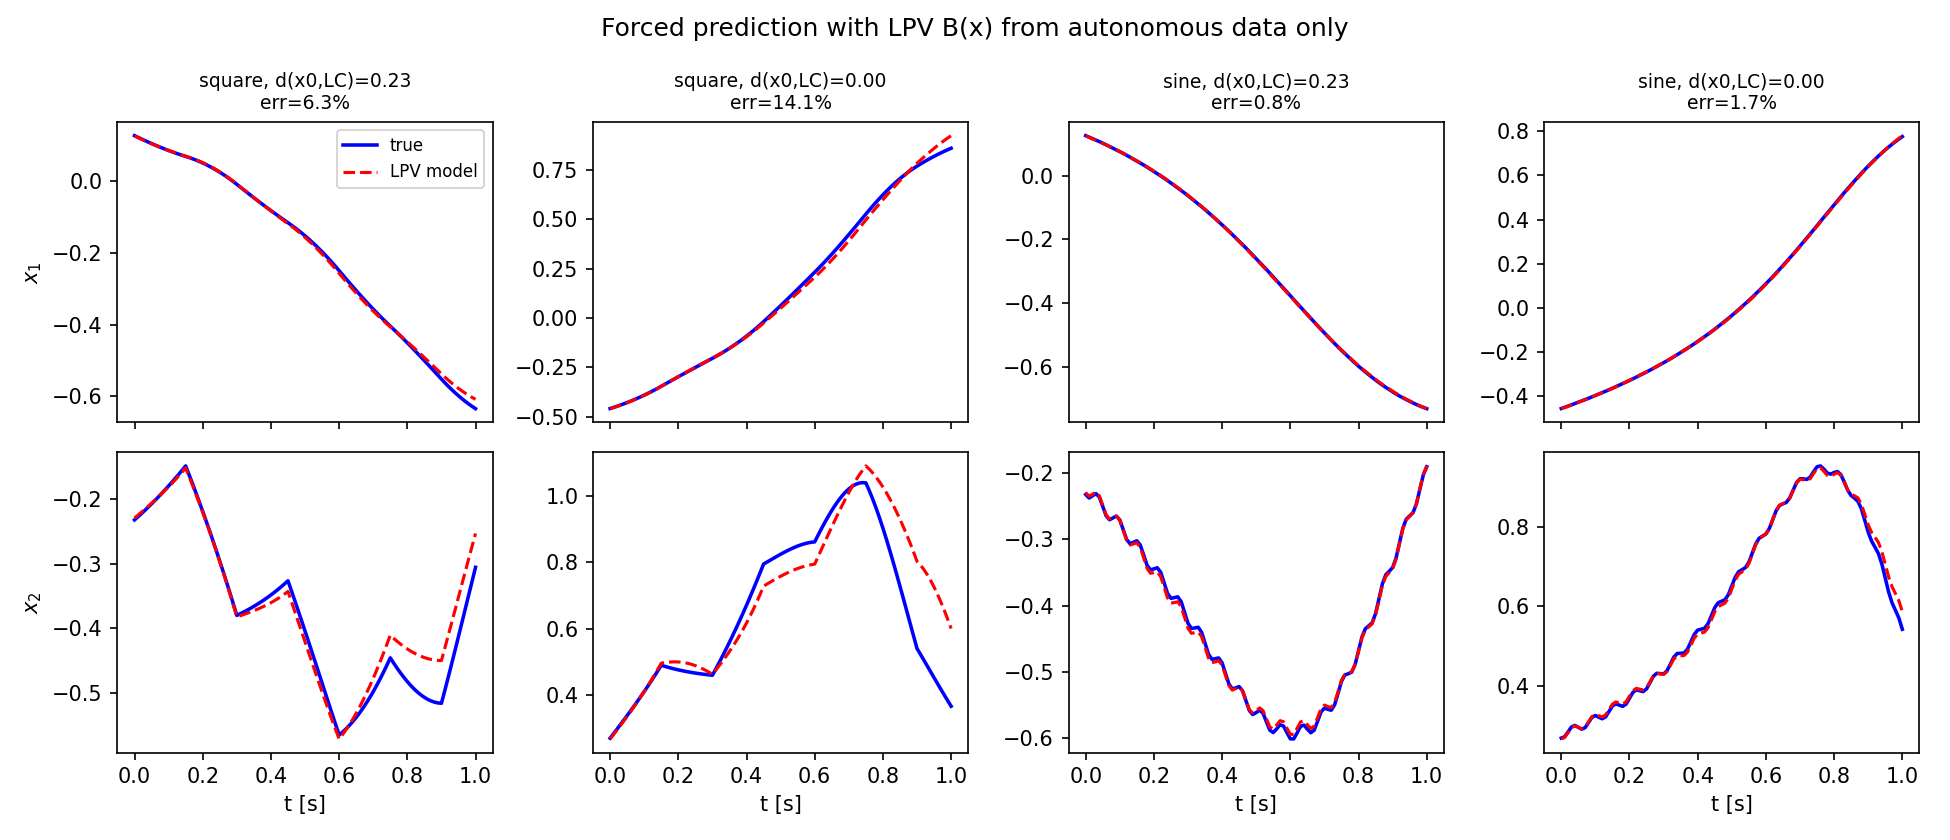
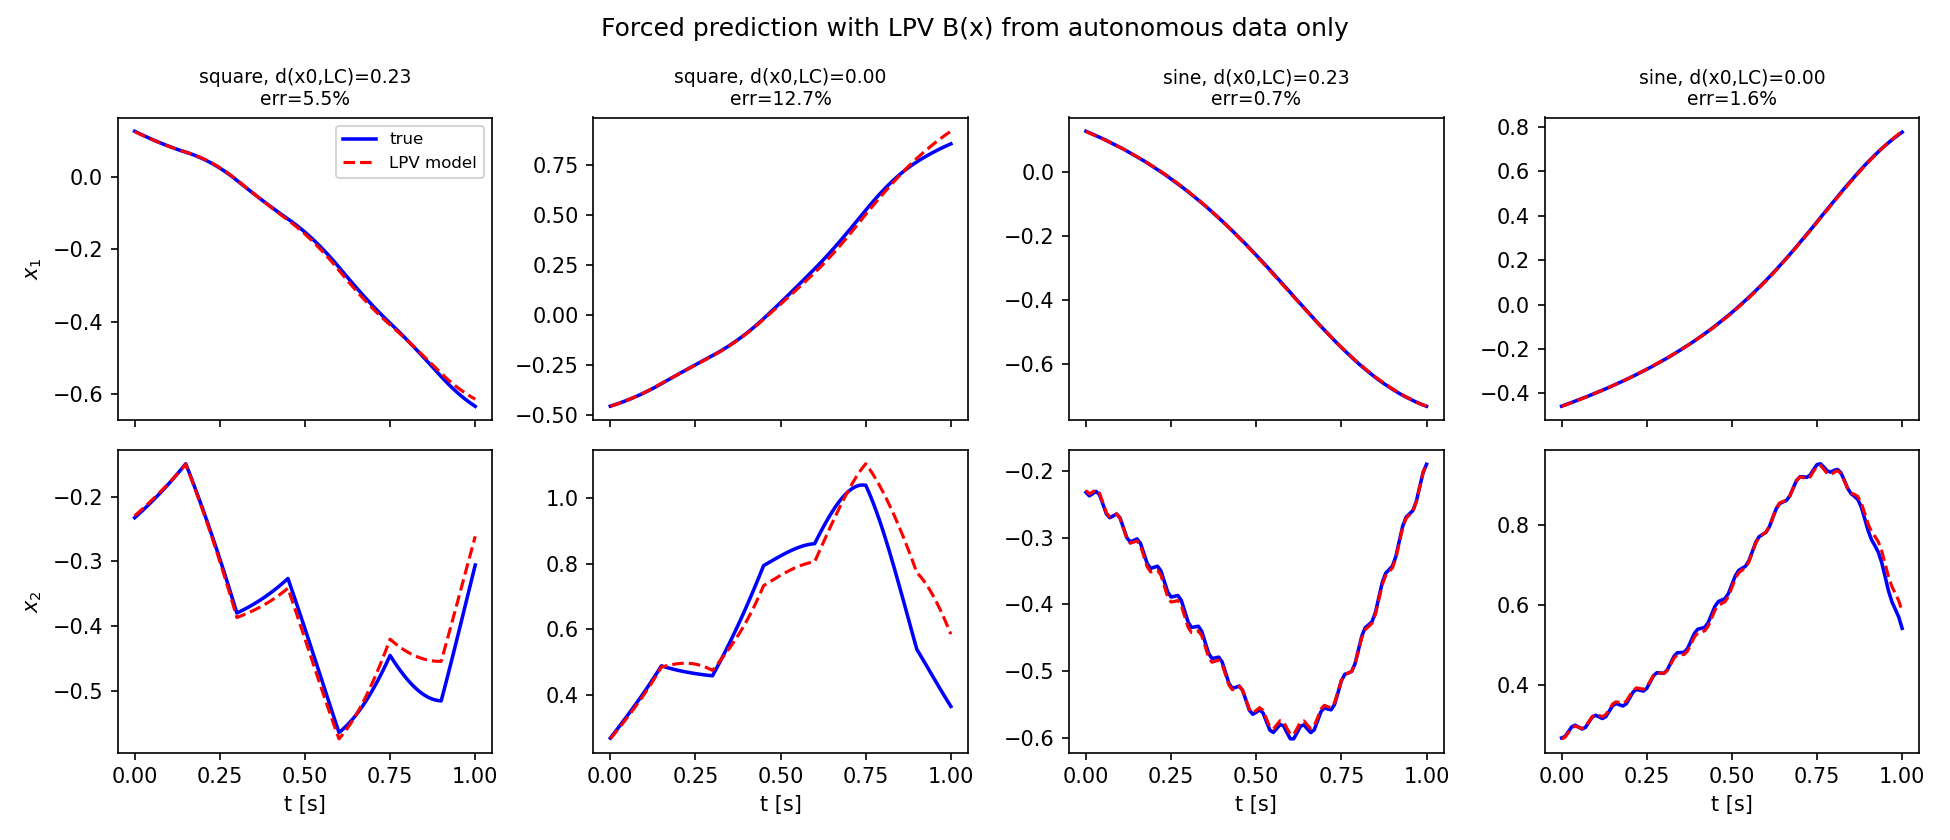
b filed analysis comparison with k-m

diff --git a/lpv-koopman/examples/run_vdp_control_benchmark.py b/lpv-koopman/examples/run_vdp_control_benchmark.py
@@ -232,6 +232,32 @@ def main() -> int:
     fig.savefig(figdir / "fig8_B_gain_map.png", dpi=150)
     plt.close(fig)
 
+    # Analogous figure for the constant-B reduction (bconst, degree=0), the
+    # LTI baseline structurally comparable to Korda & Mezic's constant input
+    # matrix. Unlike the fitted LPV field, this evaluates the *same* model
+    # class the K-M benchmark uses, so it is a fair sanity check: the value
+    # is guaranteed spatially uniform (degree-0 fit), but is computed from
+    # the actual least-squares fit rather than assumed to equal the exact
+    # answer.
+    gx = np.linspace(-0.85, 0.85, 60)
+    gy = np.linspace(-0.9, 0.9, 60)
+    GX, GY = np.meshgrid(gx, gy)
+    CB_const = np.full(GX.shape, np.nan)
+    pts = np.column_stack([GX.ravel(), GY.ravel()])
+    inside = poly.contains_points(pts)
+    for i, p in enumerate(pts):
+        if inside[i]:
+            CB_const.ravel()[i] = (model.C @ bconst(p))[1, 0]
+    fig, ax = plt.subplots(figsize=(6.2, 5.2))
+    pc = ax.pcolormesh(GX, GY, CB_const, shading="auto", cmap="RdBu_r", vmin=0.7, vmax=1.3)
+    fig.colorbar(pc, ax=ax, label=r"$(C\,B_{\mathrm{const}})_2$   (exact value: 1)")
+    ax.plot(lc[:, 0], lc[:, 1], "k-", lw=1.5)
+    ax.set_xlabel("$x_1$"); ax.set_ylabel("$x_2$"); ax.set_aspect("equal")
+    ax.set_title("Output-projected input gain of the constant-B (LTI) reduction")
+    fig.tight_layout()
+    fig.savefig(figdir / "fig8b_B_gain_map_const.png", dpi=150)
+    plt.close(fig)
+
     (out / "results_control.json").write_text(json.dumps(results, indent=1))
     print(f"\nresults -> {out/'results_control.json'}")
     print(f"figures -> {figdir}/fig6..fig8")

diff --git a/lpv-koopman/reports/figures_explained.md b/lpv-koopman/reports/figures_explained.md
@@ -131,6 +131,8 @@ including right next to the limit cycle — which is the headline result of
 visibly brighter (yellow, ~log₁₀ ≈ 1.4, i.e. ~25 %) dot near the top-right
 of the cycle is the model's single worst case among the 500 test points.
 
+**Why initial conditions stay on a circle**: because, based on the paper, trajectory should start from a non recurrent surface/set (start there and never return to it), and the circle is the simplest star-shaped curve (the reason star-shapedness suffices here specifically is a Poincaré–Bendixson argument: in the annulus between the unstable focus and the attracting limit cycle there's no other invariant set, so the radius r(t) is monotonic along every orbit).
+
 ---
 
 ### `fig2_eigenvalues.png`
@@ -222,6 +224,9 @@ mean once the model has enough eigenfunctions to overfit the interior
 eigenfunction budget, the full-interior error (which is the harder number)
 falls monotonically to well under 1 % by N = 40 — undercutting even the
 interior-only paper-configuration curve.
+
+**Why there's a small residual gap - algorithmic differences**: 
+As explaine in [README.md](lpv-koopman/README.md#L175) there are some deliberate design choices made where such choices are not explicitly described in the paper.
 
 ---
 
